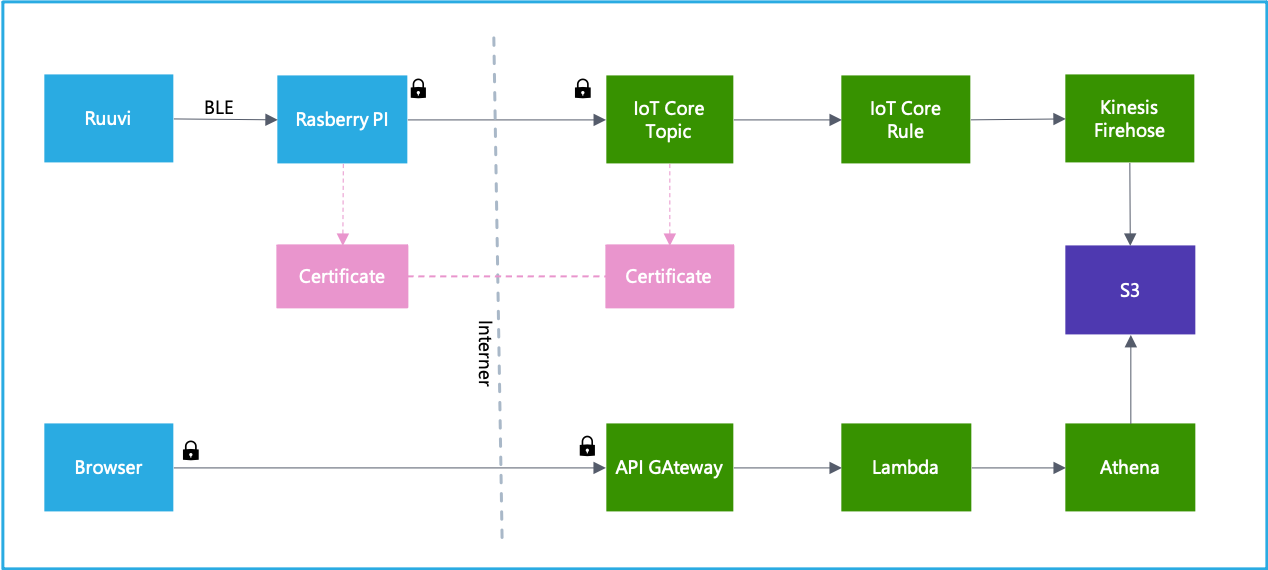
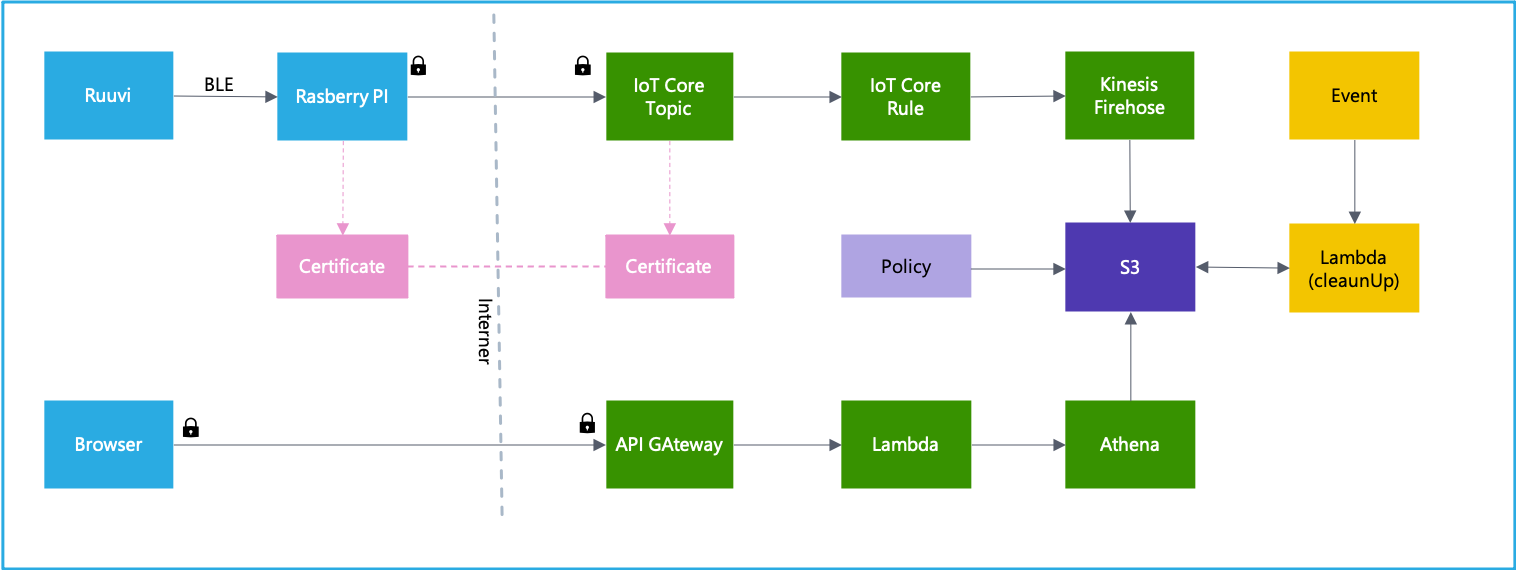
Readme

diff --git a/README.md b/README.md
@@ -18,48 +18,7 @@ This project will rollout all resources to load 'ruuvi' data to AWS S3 and adds 
 
  ## Overview
  ![Overview](/image/overview.png)
-____
-# Remarks
-## Certificate/Key Creation and Re-use
-When creating the stack it will look for CSR (Certificat Creation Request) and Keys in the 'cert' directory. When found, the CSR will be send to AWS to be turned into a Certifica. This will ensure the use of the same Certificate after new rollout (e.g. changes), so the Key/Certivicate on the IoT device can remain the same. If no CSR/Keys are found, a new CSR will be creaded and stored in the 'cert' directory for future use. This new Certificate/Key needs to be rolled out to the IoT device.
 
-## Certificate/Key rollout to IoT device
-After stack creation the following documents should be rolled out to the IoT device:
-  * Private key: The PEM file can be found in the 'cert' directory
-  * Certificate: The certificate PEM file can be retrieved from AWS with the following command:
-  ```
-  aws iot describe-certificate --query "certificateDescription.certificatePem" --output text --certificate-id ${CERTIFICATEID}
-  ```
-Path to Private key, Certificate Id and command to retrieve Certificate PEM file will be output by the 'cdk deploy' command.
-
-## Delete policy
-The stack will automaticly delete created S3 objects:
- * Athena objects with an S3 policy
- * Ruuvi json objects, with a daily scheduled Lambda function
-
-____
-## Ruuvi code and scheduling
-### Installation
-  * The ruuvi code consists of one python script: 'rdi_ruuvi.py', stored in the 'ruuvi' directory of this repository. Store this file in a appropriate directory on the IoT device.
-  * The following fields need to be configured to upload data to AWS:
-    * ENDPOINT
-    * PREFIX
-    * PATH_TO_CERT
-    * PATH_TO_KEY
-  * The values can be retrieved from the 'cdk deploy' output.
-### Prerequisits
-  * The 'ruuvitag-sensor' library  is used to read the ruuvi data (https://github.com/ttu/ruuvitag-sensor)
-  * For the 'ruuvitag-sensor' library to work the 'Bleso' bluetooth library needs to be installed and pointed to by setting the enviroment variable 'RUUVI_BLE_ADAPTER="Bleson"
-  * To connect to AWS the 'aws-iot-device-sdk-python' library needs to be installed
-
-### Running and Scheduling
-  * Ruuvi code is started with: 'python3 <path_to>rdi_ruuvi LOOPS=1 SEC=60'
-    * LOOPS is the number of requests sent to Aws
-    * SEC is the time between two measurement
-  * Ruuvi can be schedueled from cron with e.g. the following cron line:
-  ```
-  0 * * * * export RUUVI_BLE_ADAPTER="Bleson"; python3 /home/pi/CDK-ruuvi/rdi_ruuvi.py 60 60      2>&1 >> /home/pi/<path>/ruuvi.log
-  ```
 ____
 # Installation
 ## Installation
@@ -89,6 +48,7 @@ Note:
  * If 'account' or 'region' are changed, endpoint in ruuvi code needs to be changed in 'rdi_ruuvi.py'
  * If 'prefixed' is changed, ruuvi prefix needs to be changed in 'rdi_ruuvi.py'
 
+___
 ## output
 Installing the stack will add the following output to the cdk output:
 ```
@@ -115,7 +75,51 @@ Certificate:    aws iot describe-certificate --query "certificateDescription.cer
 Outputs:
 CdkIotServerlessStack.CERTIFICATEID = xxxxxxxxxxxxxxxxxxxxxxxxxxxxxxxxxxxxxxxxxxxxxxxx
 CdkIotServerlessStack.<prefix>Endpointxxxxxxxx = https://xxxxxxxxxx.execute-api.eu-west-1.amazonaws.com/prod/
+
 ```
+____
+# Certificate/Key
+## Creation and Re-use
+When creating the stack it will look for CSR (Certificat Creation Request) and Keys in the 'cert' directory. When found, the CSR will be send to AWS to be turned into a Certifica. This will ensure the use of the same Certificate after new rollout (e.g. changes), so the Key/Certivicate on the IoT device can remain the same.
+If no CSR/Keys are found, a new CSR will be creaded and stored in the 'cert' directory for future use. This new Certificate/Key needs to be rolled out to the IoT device.
+
+## Rollout to IoT device
+After stack creation the following documents should be rolled out to the IoT device:
+  * Private key: The PEM file can be found in the 'cert' directory
+  * Certificate: The certificate PEM file can be retrieved from AWS with the following command:
+  ```
+  aws iot describe-certificate --query "certificateDescription.certificatePem" --output text --certificate-id ${CERTIFICATEID}
+  ```
+Path to Private key, Certificate Id and command to retrieve Certificate PEM file will be output by the 'cdk deploy' command.
+
+____
+## Ruuvi code and scheduling
+### Installation
+  * The ruuvi code consists of one python script: 'rdi_ruuvi.py', stored in the 'ruuvi' directory of this repository. Store this file in a appropriate directory on the IoT device.
+  * The following fields need to be configured to upload data to AWS:
+    * ENDPOINT
+    * PREFIX
+    * PATH_TO_CERT
+    * PATH_TO_KEY
+  * The values can be retrieved from the 'cdk deploy' output.
+### Prerequisits
+  * The 'ruuvitag-sensor' library  is used to read the ruuvi data (https://github.com/ttu/ruuvitag-sensor)
+  * For the 'ruuvitag-sensor' library to work the 'Bleso' bluetooth library needs to be installed and pointed to by setting the enviroment variable 'RUUVI_BLE_ADAPTER="Bleson"
+  * To connect to AWS the 'aws-iot-device-sdk-python' library needs to be installed
+
+### Running and Scheduling
+  * Ruuvi code is started with: 'python3 <path_to>rdi_ruuvi LOOPS=1 SEC=60'
+    * LOOPS is the number of requests sent to Aws
+    * SEC is the time between two measurement
+  * Ruuvi can be schedueled from cron with e.g. the following cron line:
+  ```
+  0 * * * * export RUUVI_BLE_ADAPTER="Bleson"; python3 /home/pi/CDK-ruuvi/rdi_ruuvi.py 60 60      2>&1 >> /home/pi/<path>/ruuvi.log
+  ```
+___
+# Delete policy
+The stack will automaticly delete created S3 objects:
+ * Athena objects with an S3 policy
+ * Ruuvi json objects, with a daily scheduled Lambda function
 
 ___
 # Known issue
